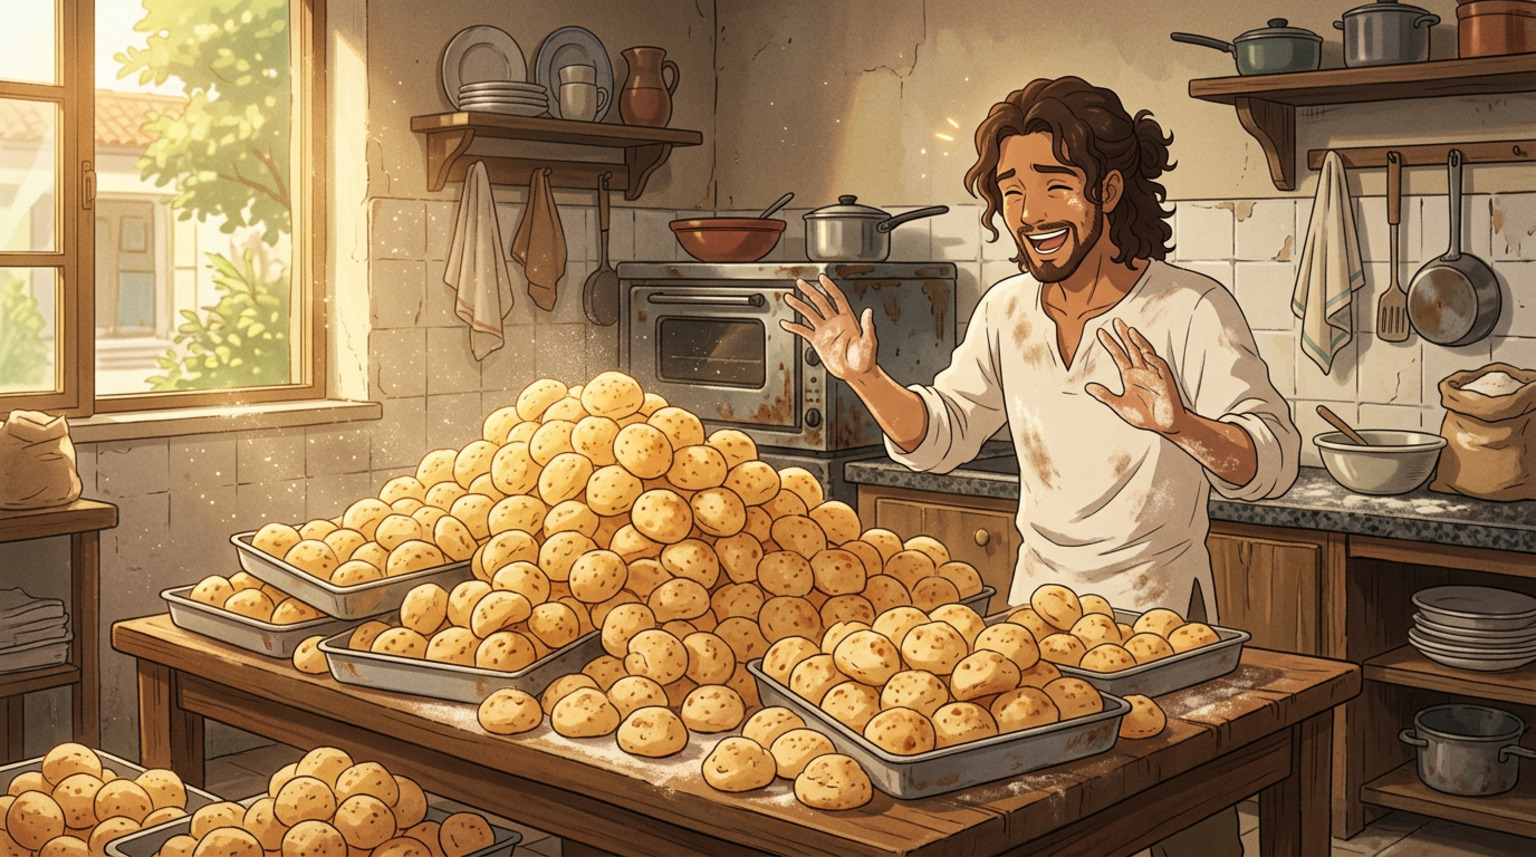
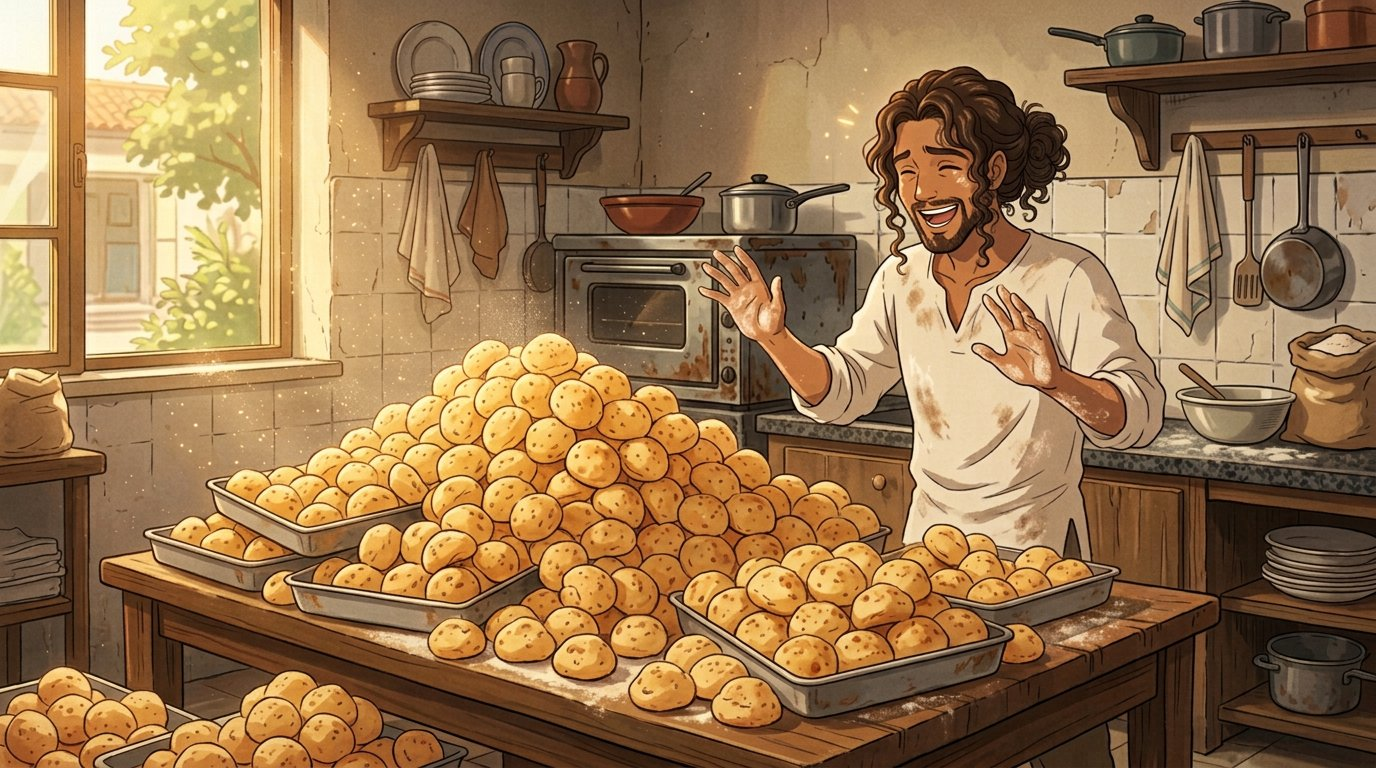
Gera os 10 frames pendentes do Ep. 02 e do Ep. 03 com o novo cabelo do Jesus; remove o pingente de cruz do ep02/c03

diff --git a/historias/santos-do-cerrado/STATUS.md b/historias/santos-do-cerrado/STATUS.md
@@ -44,8 +44,8 @@ A imagem de fim do Ep. 01 (`ep01/c05-fim.jpg`) tinha o Tupã com a cabeça **vir
 | Episódio | Início | Fim | Falta |
 |---|---|---|---|
 | 01 — Quarenta Graus | ✅ c01–c05 | ✅ c01–c05 | — |
-| 02 — A Festa do Bairro | ✅ c01 (sem pessoas) · ⏳ c02, c03 · ✅ c04 (só Tupã) · ✅ c05 (só Saci) | ✅ c01, c02, c03, c04 · ⏳ c05 | **c02, c03, c01-fim, c02-fim, c03-fim, c05-fim** |
-| 03 — O Ipê do Estacionamento | ✅ c01 (sem pessoas) · ⏳ c02, c04, c05 · ✅ c03 (só Tupã) | ⏳ todos | **c02, c04, c05, c01-fim a c05-fim** |
+| 02 — A Festa do Bairro | ✅ c01–c05 | ✅ c01–c05 | — |
+| 03 — O Ipê do Estacionamento | ✅ c01–c05 | ✅ c01 · ⏳ c02, c03, c04, c05 | **c02-fim, c03-fim, c04-fim, c05-fim** |
 
 > **Regra usada para decidir quais frames refazer:** só os frames em que o **Jesus aparece**. Frames sem ele (cidade, parede, Saci no galho, Tupã sozinho na árvore) foram mantidos — o figurino e o rosto do Tupã não mudaram.
 
@@ -58,8 +58,8 @@ A imagem de fim do Ep. 01 (`ep01/c05-fim.jpg`) tinha o Tupã com a cabeça **vir
 | Guia de produção (Seedance/Veo + CapCut) | ✅ |
 | Roteiro dos 3 episódios reformatado em 5 clipes de 6 s | ✅ |
 | Prompts de imagem e de vídeo (15 + 15) | ✅ retimados para 6 s |
-| **Frames de início** | **15 de 15** ✅ (12 refeitos com o cabelo novo do Jesus) |
-| **Frames de fim** | **10 de 15** — faltam 6 |
+| **Frames de início** | **15 de 15** ✅ (todos com o cabelo novo do Jesus) |
+| **Frames de fim** | **11 de 15** — faltam 4 |
 
 > Os frames antigos do Ep. 01 (12 planos) ficaram em `imagens/ep01/alternativas/` e servem como banco extra.
 
@@ -75,6 +75,7 @@ Frames refeitos: `ep01/c02`, `ep01/c03`, `ep01/c05` (também trocou o short por 
 
 ## ✅ Correções aplicadas (23/10)
 
+- `ep02/c03` — tinha um **pingente de cruz** no peito do Jesus → removido, decote limpo.
 - `ep03/c02` — Tupã estava **com barba** → regerado **sem barba**.
 - `ep03/c05` — Tupã **duplicado** → regerado com **exatamente dois personagens** e sem barba.
 - `ep01/c03` — tinha **cruz na parede** e **tatuagens** no Tupã → regerado, quadro limpo.
@@ -99,7 +100,7 @@ Os 6 prompts que faltam estão no **Anexo** do `03-prompts-de-video.md`.
 
 ## ⚠ PRÓXIMA CONVERSA — só isto:
 
-1. Terminar os **14 frames pendentes** (Ep. 02: `c02`, `c03`, `c01-fim`, `c02-fim`, `c03-fim`, `c05-fim` · Ep. 03: `c02`, `c04`, `c05`, `c01-fim` a `c05-fim`) — sempre usando o frame atual como imagem de referência e o bloco de personagem novo.
+1. Gerar os **4 últimos frames de fim do Ep. 03**: `c02-fim`, `c03-fim`, `c04-fim`, `c05-fim` — prompts no Anexo do `03-prompts-de-video.md`.
 2. *(Opcional)* Gerar as **falas em áudio** para dublagem.
 3. *(Temporada 2)* A figura de terno claro e chapéu de palha, plantada no fim do Ep. 03.
 
